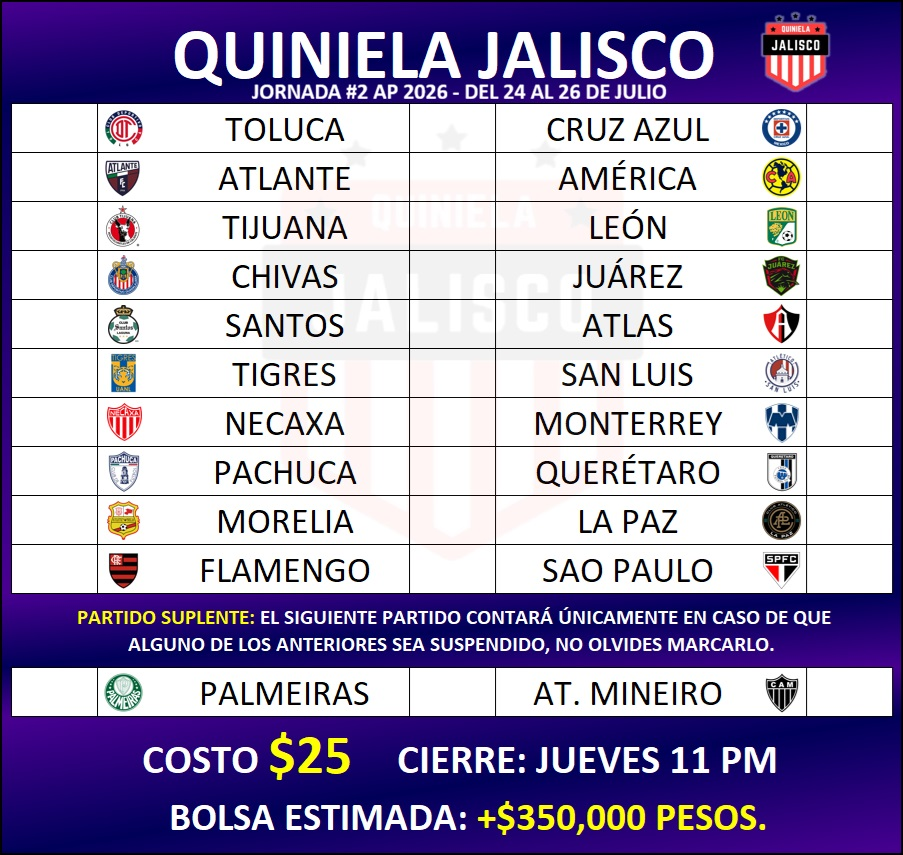
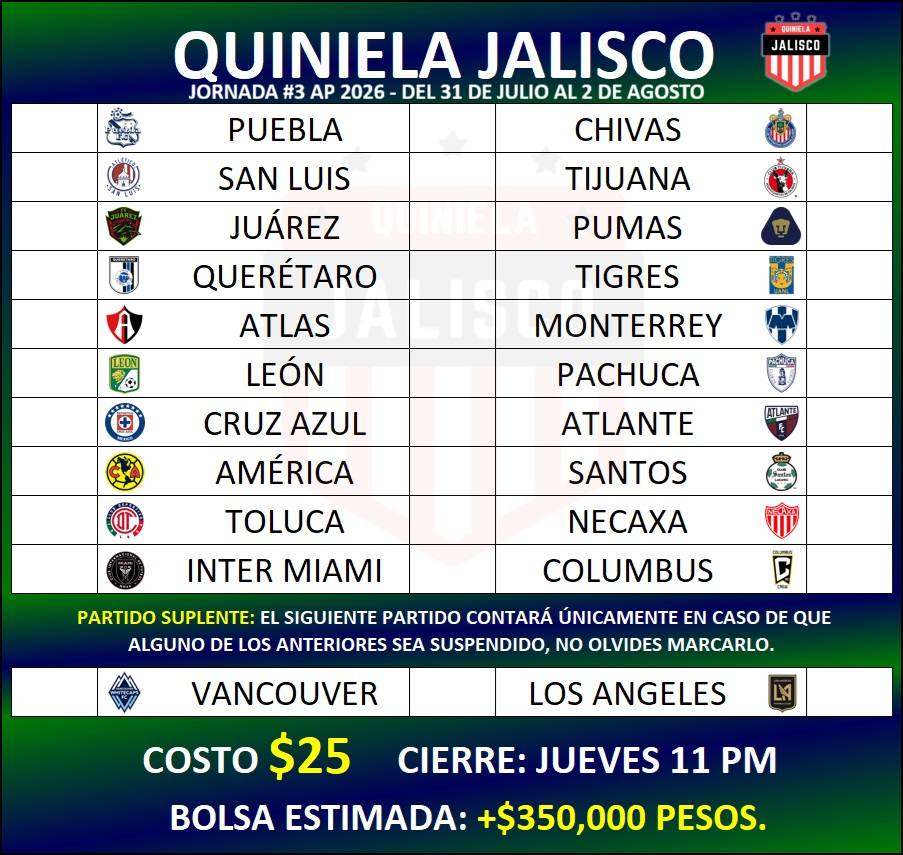
Jornada 3 A26

diff --git a/11/styles11.css b/11/styles11.css
@@ -95,8 +95,8 @@ body{
     margin-top: 8.5%;
     border-top: solid 1px black;
     border-radius: 0 0 14px 14px;
-    background: -webkit-linear-gradient(0.49turn, rgb(32,0,113) -7%, rgb(6,32,84) 80%);
-    background: linear-gradient(0.49turn, rgb(32,0,113) -7%, rgb(6,32,84) 80%);
+    background: -webkit-linear-gradient(0.49turn, rgb(0,58,46) -7%, rgb(6,32,84) 80%);
+    background: linear-gradient(0.49turn, rgb(0,58,46) -7%, rgb(6,32,84) 80%);
 }
 
 .text-lg{
